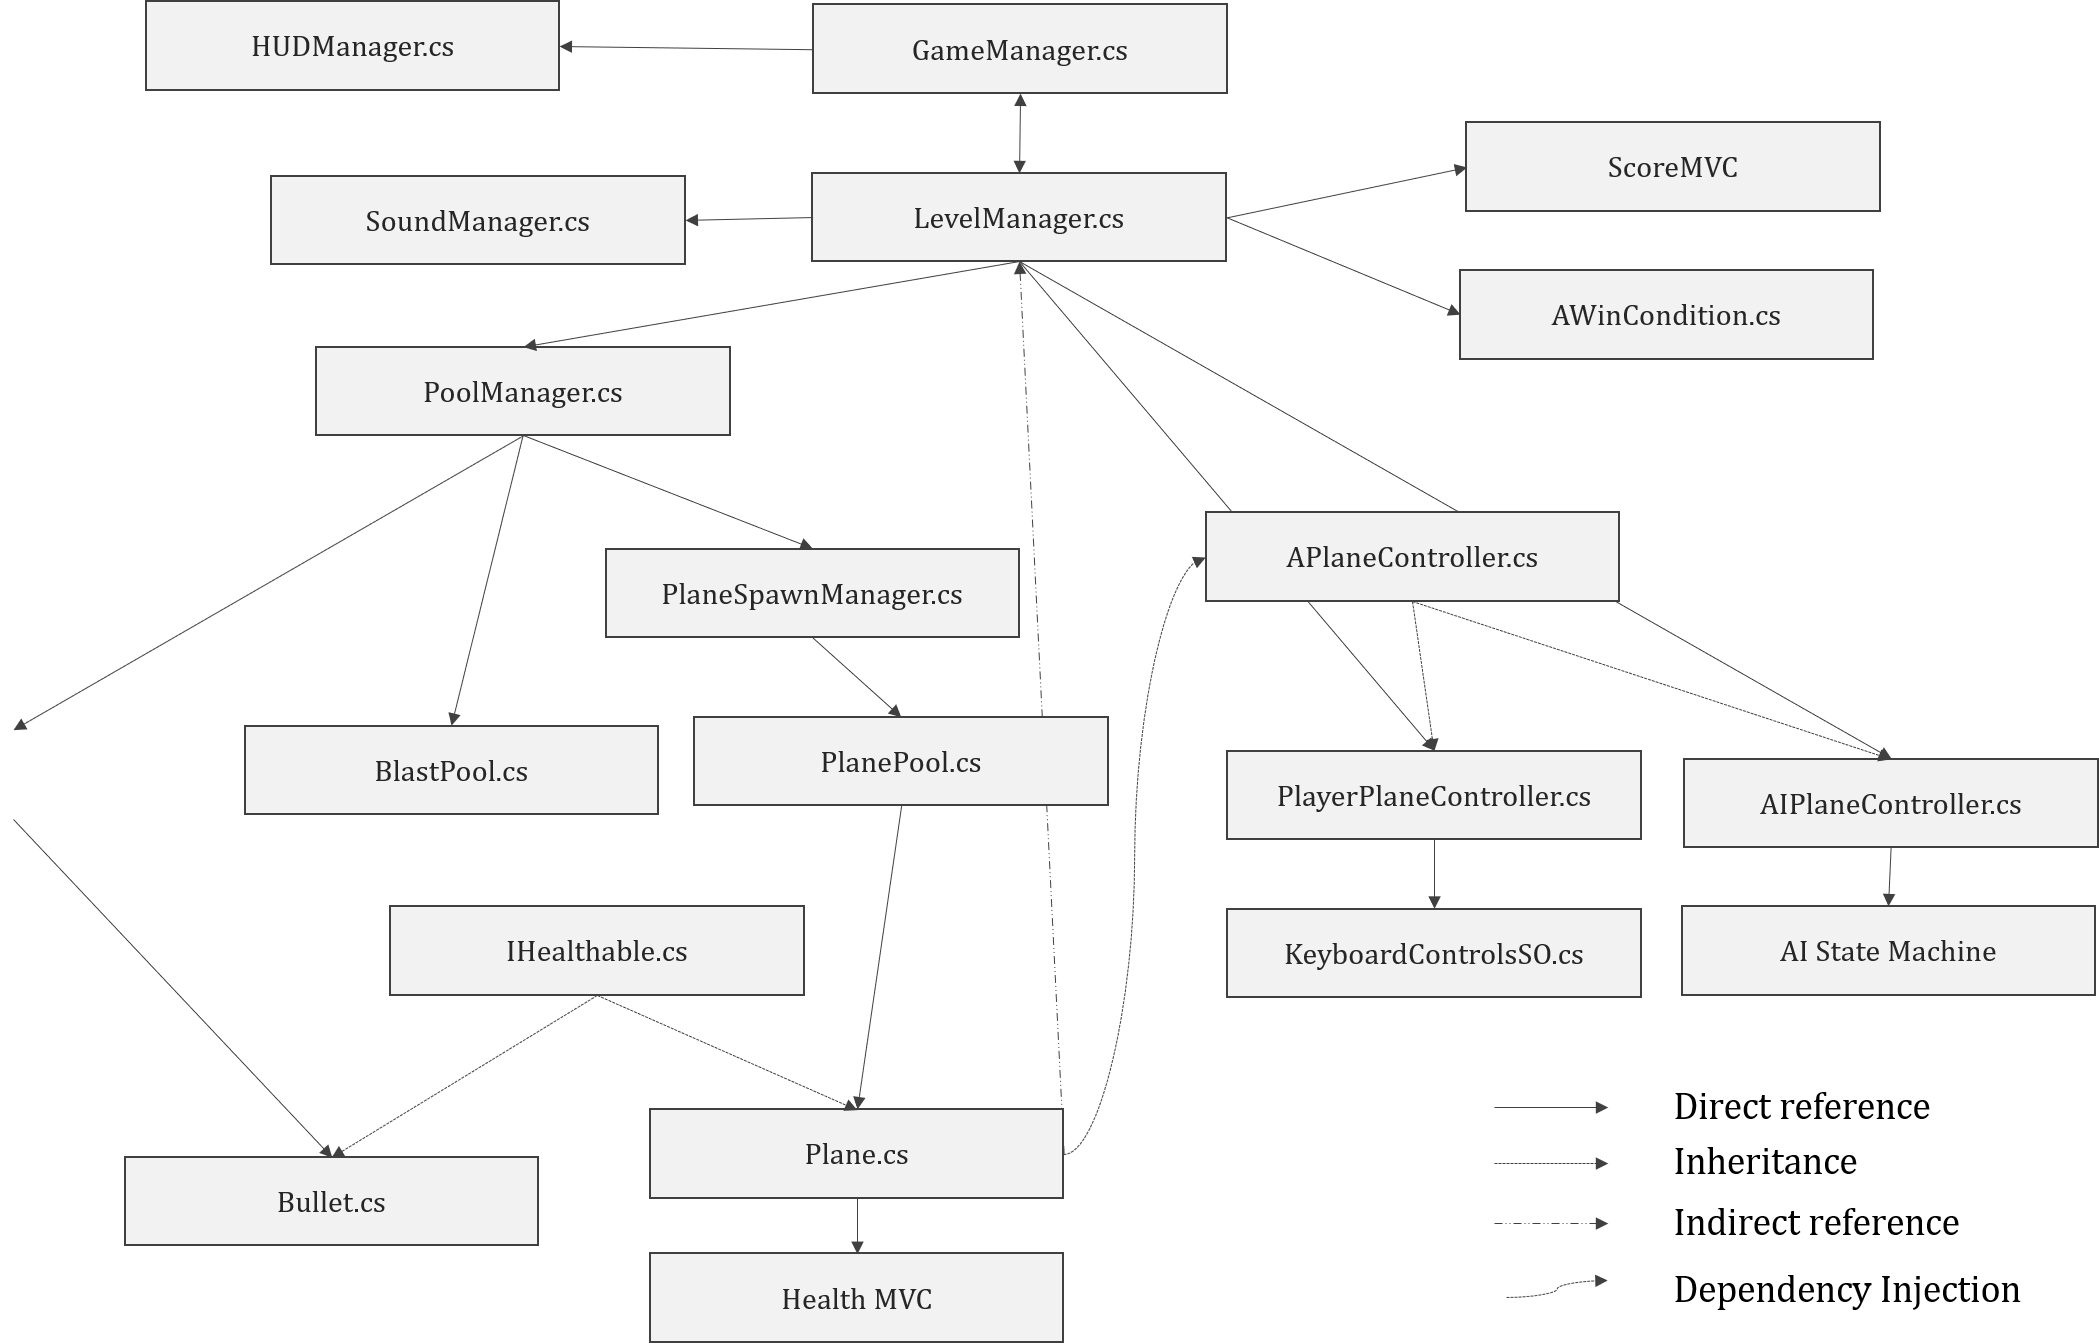
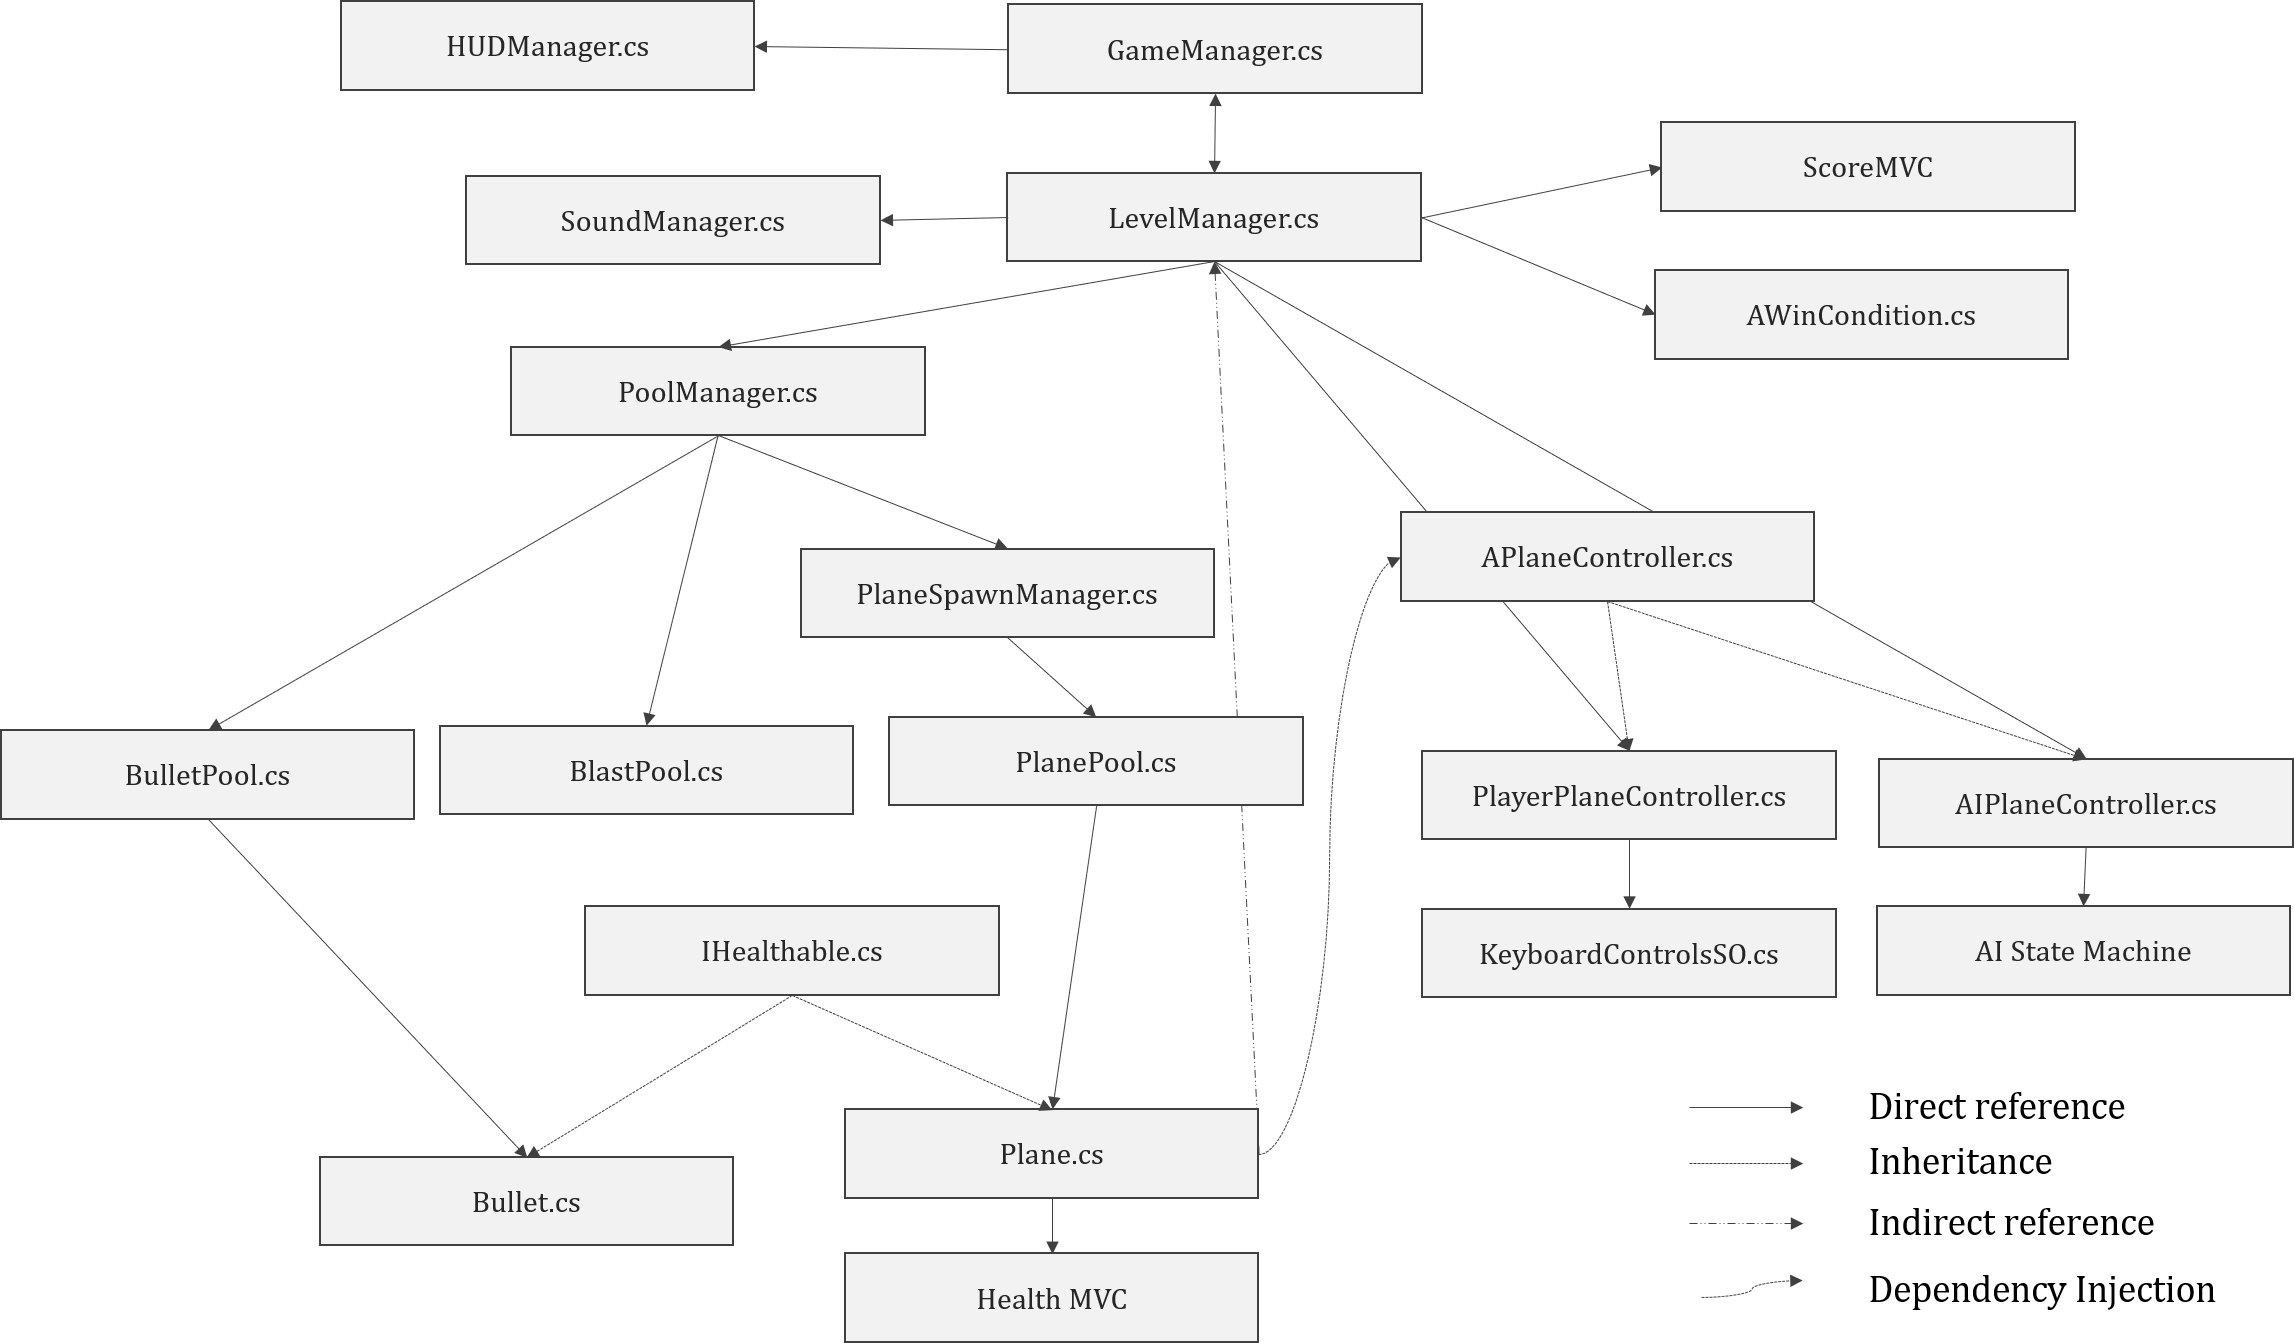
read me update

diff --git a/README.md b/README.md
@@ -169,7 +169,8 @@ Internally, `HealthController.cs` reduces health from maxHealth by *inflictingDa
 
 `HealthModel.cs` sets onHealthChange(currentHealth, maxHealth) event of `HealthController.cs` for onHit(IHealthable). onHealthChange event also gets subscribed by local `HealthView.cs` to display health bar. 
 
-*[onHealthChange is also subscribed by `HealthBarBlink.cs` which makes healthbar blink once it reach some value (configurable from prefab)]*
+> onHealthChange is also subscribed by `HealthBarBlink.cs` which makes healthbar blink once it reach some threshold value (configurable from prefab)
+
 #### Score System
 
 ![alt text](https://raw.githubusercontent.com/Nrjnicks/SpaceShooterGame/master/ReadmeImages/ScoreMVC.png "ScoreMVC")
@@ -188,10 +189,18 @@ User can type their name in the dialog box to save their high score.
 
 ![alt text](https://raw.githubusercontent.com/Nrjnicks/SpaceShooterGame/master/ReadmeImages/HUDMVC.png "HUDMVC")
 
-`GameManager.cs` on session start, sets `HUDController.cs` which subscribes itself to different events in `LevelManager.cs` to show and hide UI using `HUDView.cs`
+`GameManager.cs` on session start, sets `HUDController.cs` which subscribes itself to different events in `LevelManager.cs` to show and hide UI using `HUDView.cs`. 
+
+### ObjectPool<**T**>
+`ObjectPool<T>` is a generic abstract class with type constraint of `Component`. This script can be implemented by any other script to create bool of similar type. Set *objectForPool*, pool size and hit play. On Start(), if the object is set, the script will create a pool which can be managed by the implemented script.
+
+In current project we are using this script for creating pool of **Plane**, **Bullets** and **Transform (Blast)**. `PoolManager.cs` manages them with level and game events.
+
+![alt text](https://raw.githubusercontent.com/Nrjnicks/SpaceShooterGame/master/ReadmeImages/PoolManager.jpg "PoolManager")
+
 
 ### WorldSpaceGameBoundary (Singleton)
-### ObjectPool<**T**>
+
 ### Save Load
 ### Win Condition
 ### Asset Bundles
